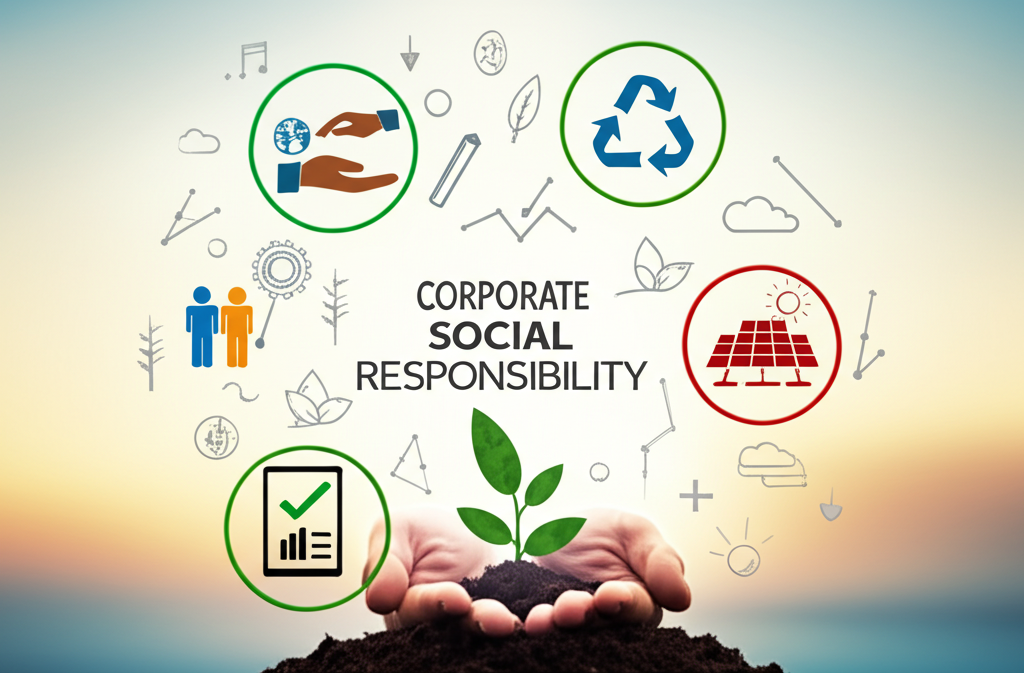
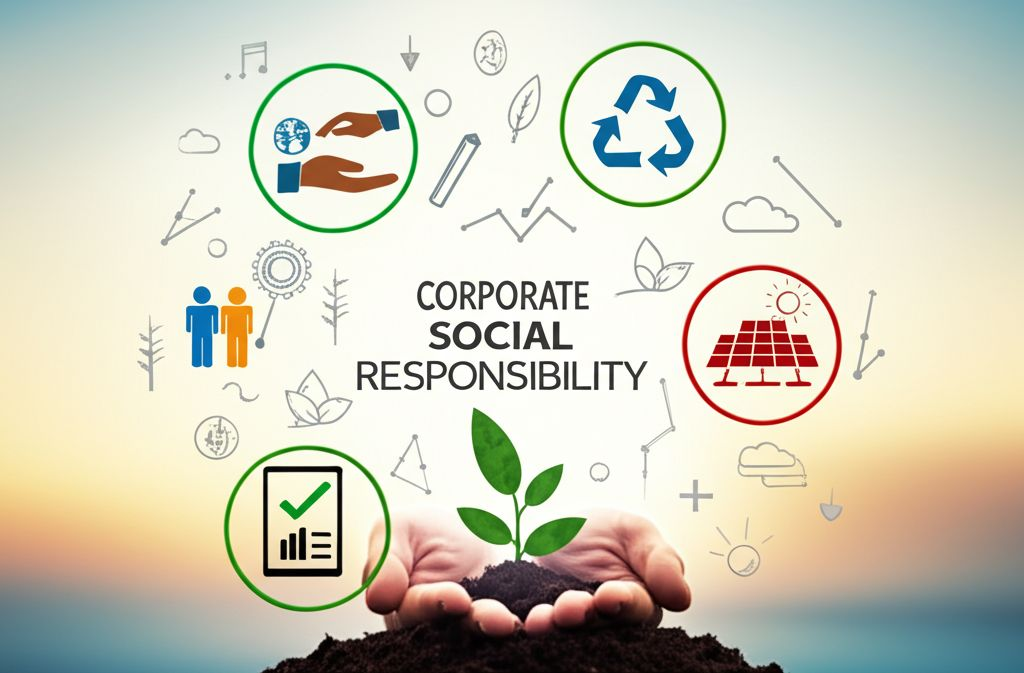
Optimize build configuration and add image optimization

diff --git a/scripts/optimize-images.js b/scripts/optimize-images.js
@@ -1,0 +1,74 @@
+const sharp = require('sharp');
+const fs = require('fs');
+const path = require('path');
+
+const PUBLIC_DIR = path.join(__dirname, '../public');
+
+// List of images that need optimization
+const imagesToOptimize = [
+  'retail-audit.jpg',
+  'trade-margin.jpg',
+  'transforming.jpg',
+  'office-cheer.png',
+  'Census-option.jpg',
+  'MerchandizingAudit.jpg',
+  'trademargin.jpg',
+  'Hussnain.jpg',
+  'ar-day-awards.png',
+  'ar-day-celebration.png',
+  'ar-day-games.png',
+  'ar-day-memory1.png',
+  'ar-day-talent.png',
+  'collaborative-code.png',
+  'collaborative-construction.png',
+  'collaborative-puzzle.png',
+  'collaborative-success.png',
+  'connected-play.png',
+  'interconnected-responsibility.png'
+];
+
+async function optimizeImage(filename) {
+  const inputPath = path.join(PUBLIC_DIR, filename);
+  const outputPath = path.join(PUBLIC_DIR, `optimized-${filename}`);
+  
+  try {
+    const image = sharp(inputPath);
+    const metadata = await image.metadata();
+    
+    // Calculate new dimensions while maintaining aspect ratio
+    let width = metadata.width;
+    let height = metadata.height;
+    
+    if (width > 1920) {
+      height = Math.round((height * 1920) / width);
+      width = 1920;
+    }
+    
+    // Optimize the image
+    await image
+      .resize(width, height, {
+        fit: 'inside',
+        withoutEnlargement: true
+      })
+      .jpeg({ quality: 80, progressive: true })
+      .toFile(outputPath);
+    
+    // Replace original with optimized version
+    fs.unlinkSync(inputPath);
+    fs.renameSync(outputPath, inputPath);
+    
+    console.log(`Optimized ${filename}`);
+  } catch (error) {
+    console.error(`Error optimizing ${filename}:`, error);
+  }
+}
+
+async function optimizeAllImages() {
+  for (const filename of imagesToOptimize) {
+    await optimizeImage(filename);
+  }
+}
+
+optimizeAllImages().then(() => {
+  console.log('Image optimization complete');
+}); 
